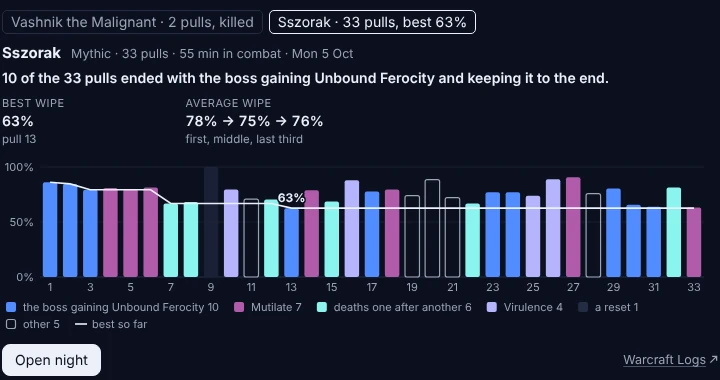
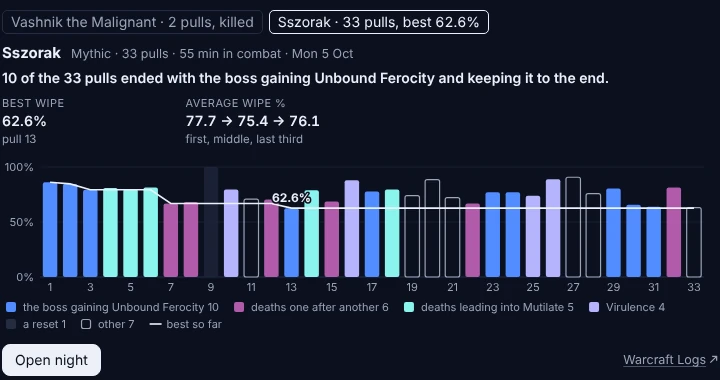
fix(agent): a night's card writes a wipe's % as the answer writes it, to one decimal
raidnight.js rounded for itself, to a whole number from 10% up: "63%" in a pull's row, on the best wipe's tile
and bar, on a boss's chip and night by night, under a text saying 62.6%, and the thirds as "78% → 75% → 76%"
for 77.7, 75.4 and 76.1. Each % now comes written by pulls.pct_text beside the number its bar is drawn from
(the pinned view data gains those fields and nothing else), a trend's pulls too. Three changelog pictures of
the card are shot again.

diff --git a/src/wipebot/core/app/raidnight.js b/src/wipebot/core/app/raidnight.js
@@ -24,10 +24,12 @@ views.night = (() => {
     return { hued: hues.has, svg: (w) => quiet(w) ? `fill="${quiet(w)}"` : hues.svg(w), css: (w) => quiet(w) ? `background:${quiet(w)}` : hues.css(w) };
   }
 
-  const pct = (v) => `${v.toFixed(v < 10 ? 1 : 0)}%`;
-  // how far a wipe got as raiders say it: on a boss counted by phase the phase and the boss's health in it ("P2 64%"),
-  // else the boss's % (the bars stand on Warcraft Logs' % of the whole fight, which ranks wipes across phases)
-  const said = (r) => r.health != null ? `${r.phase.split(" ")[0]} ${pct(r.health)}` : pct(r.pct);
+  // Every % the card prints comes written as progress's text writes it (views.night_view's `*_text`: "62.6%"); the
+  // numbers beside them are for the bars. The page rounded for itself once: "63%" under a text saying 62.6%.
+  // How far a wipe got as raiders say it: on a boss counted by phase the phase and the boss's health in it
+  // ("P2 64.0%"), else the boss's % (the bars stand on Warcraft Logs' % of the whole fight, which ranks wipes across
+  // phases)
+  const said = (r) => r.health_text ? `${r.phase.split(" ")[0]} ${r.health_text}` : r.pct_text;
 
   // The card's numbers. What ended the most pulls is the headline of a night without a kill (views.night_headline):
   // here only after a kill, and counted as there and in the list of endings, over every pull that ended.
@@ -41,7 +43,7 @@ views.night = (() => {
         : best ? ["Best wipe", said(best), "", `pull ${best.pull}`] : null,
       g ? ["Guild best before", said(g), "", beat ? "beaten tonight" : g.day] : null,
       kill && top ? ["Ended most pulls", top[0].replace(/ killing many$/, ""), "decided", `${top[1]} of ${ended}${/killing many$/.test(top[0]) ? ", killing many" : ""}`] : null,
-      D.thirds ? ["Average wipe", D.thirds.map((t) => `${Math.round(t)}%`).join(" → "), "", D.phased ? "WCL %, first, middle, last third" : "first, middle, last third"] : null,
+      D.thirds ? ["Average wipe %", D.thirds_text.join(" → "), "", D.phased ? "WCL %, first, middle, last third" : "first, middle, last third"] : null,
     ];
   }
 
@@ -49,7 +51,7 @@ views.night = (() => {
   function bosses() {
     if (D.bosses.length < 2) return "";
     return `<div class="chips bosses">${D.bosses.map((b) => `<button class="chip${b.boss === D.boss ? " on" : ""}" data-boss="${kit.esc(b.boss)}">`
-      + `${kit.esc(b.boss)} · ${kit.plural(b.pulls, "pull")}${b.kill ? ", killed" : b.best != null ? `, best ${pct(b.best)}` : ""}</button>`).join("")}</div>`;
+      + `${kit.esc(b.boss)} · ${kit.plural(b.pulls, "pull")}${b.kill ? ", killed" : b.best != null ? `, best ${b.best_text}` : ""}</button>`).join("")}</div>`;
   }
 
   const sub = () => [D.difficulty, kit.plural(D.pulls.length, "pull"), `${Math.round(D.combat_ms / 60000)} min in combat`, D.title.split(", ").pop()].filter(Boolean).join(" · ");
@@ -67,7 +69,7 @@ views.night = (() => {
     const line = [];
     D.pulls.forEach((r, i) => {
       const cx = x(i) + band / 2, v = r.kill ? 0 : r.pct ?? 0;
-      const left = r.health != null ? `${r.phase} at ${pct(r.health)} (WCL ${pct(v)})` : `${pct(v)} left${r.phase ? ` (${r.phase})` : ""}`;
+      const left = r.health_text ? `${r.phase} at ${r.health_text} (WCL ${r.pct_text})` : `${r.pct_text}${r.pct != null ? " left" : ""}${r.phase ? ` (${r.phase})` : ""}`;
       const tip = `Pull ${r.pull}: ${r.kill ? "kill" : r.reset ? "a reset" : r.live ? "still going" : left}, ${kit.clock(r.duration_ms)}`
         + `\nEnded by: ${r.ended}` + (r.first ? `\nFirst death: ${r.first.name} (${r.first.by}, ${kit.clock(r.first.ms)})` : "");
       if (r.kill) o += `<path d="M${cx} ${y(0) - 12} l4 8 l-8 0z" fill="var(--gold)"/>`;
@@ -108,7 +110,7 @@ views.night = (() => {
     const n = phaseNo(p);
     return n ? `color-mix(in srgb, var(--blue) ${Math.round(35 + 65 * (top > 1 ? (n - 1) / (top - 1) : 1))}%, var(--line))` : "var(--muted)";
   }
-  const best = (r) => r.kill ? "kill" : r.pct == null ? "–" : r.phase ? `${r.phase.split(" ")[0]} ${pct(r.health ?? r.pct)}` : pct(r.pct);
+  const best = (r) => r.kill ? "kill" : r.pct == null ? "–" : r.phase ? `${r.phase.split(" ")[0]} ${r.health_text || r.pct_text}` : r.pct_text;
 
   function weeksStats() {
     const W = D.weeks, kill = W.find((r) => r.kill), first = W[0], last = W[W.length - 1];
@@ -131,7 +133,7 @@ views.night = (() => {
     W.forEach((r, i) => {
       const cx = x(i) + band / 2, v = r.kill ? 0 : r.pct ?? 0;
       const tip = `${r.day}: ${kit.plural(r.pulls, "pull")}, ${r.kill ? `killed on pull ${r.kill}` : r.pct == null ? "no wipe past a reset"
-        : `best wipe ${r.health != null ? `${r.phase} at ${pct(r.health)} (WCL ${pct(r.pct)})` : `${pct(r.pct)}${r.phase ? ` (${r.phase})` : ""}`} on pull ${r.pull}`}`
+        : `best wipe ${r.health_text ? `${r.phase} at ${r.health_text} (WCL ${r.pct_text})` : `${r.pct_text}${r.phase ? ` (${r.phase})` : ""}`} on pull ${r.pull}`}`
         + (r.ended ? `\nEnded most pulls: ${r.ended[0]} (${r.ended[1]})` : "");
       if (r.kill) o += `<path d="M${cx} ${y(0) - 14} l5 10 l-10 0z" fill="var(--gold)"/>`;
       else if (r.pct != null) o += `<rect x="${cx - bw / 2}" y="${y(v)}" width="${bw}" height="${Math.max(1, y(0) - y(v))}" rx="3" fill="${phaseColor(r.phase, top)}"/>`;
@@ -179,7 +181,7 @@ views.night = (() => {
 
   function table() {
     const color = colorOf();
-    const rows = D.pulls.map((r) => `<tr data-pull="${r.pull}"${kit.opens()}><td>${r.pull}</td><td>${r.kill ? "kill" : r.reset ? "reset" : r.pct != null ? pct(r.pct) : "–"}${r.best ? " ★" : ""}</td>`
+    const rows = D.pulls.map((r) => `<tr data-pull="${r.pull}"${kit.opens()}><td>${r.pull}</td><td>${r.kill ? "kill" : r.reset ? "reset" : r.pct != null ? r.pct_text : "–"}${r.best ? " ★" : ""}</td>`
       + `<td>${r.phase || ""}</td><td>${kit.clock(r.duration_ms)}</td><td><span class="dot" style="${color.css(r.ended)}"></span>${kit.esc(r.ended)}</td>`
       + `<td>${r.first ? `${kit.esc(r.first.name)} (${kit.esc(r.first.by)}, ${kit.clock(r.first.ms)})` : ""}</td></tr>`).join("");
     return `<div class="section-title">Pull by pull (click one for its view; ★ best of the night until then)</div><div class="scroll-x"><table class="pulls"><thead><tr>`

diff --git a/src/wipebot/core/app/trend.js b/src/wipebot/core/app/trend.js
@@ -19,8 +19,8 @@ views.trend = (() => {
   const total = (v) => D.count ? String(Math.round(v)) : kit.short(v);
   const change = (now, was) => { const p = Math.round((now / was - 1) * 100); return p ? `${p > 0 ? "+" : "−"}${Math.abs(p)}%` : "the same"; };
   const counted = () => D.pulls.filter((r) => !r.reset);
-  // how far a wipe got, as the tools write it ("62.6%"); a log without it has none
-  const left = (r) => r.pct == null ? "" : `${r.pct.toFixed(1)}%`;
+  // how far a wipe got, written as the tools write it (views.trend_view: "62.6%"); a log without it has none
+  const left = (r) => r.pct_text || "";
   const result = (r) => r.kill ? "kill" : r.reset ? "reset" : left(r) || "–";
 
   function stats() {

diff --git a/tests/core/test_views.py b/tests/core/test_views.py
@@ -212,6 +212,51 @@ async def test_the_raid_night_view_states_what_progress_states(recorded):
     assert [r["pull"] for r in data["pulls"] if r["best"]] == [2, 3, 7, 13]
 
 
+async def test_the_night_card_prints_each_wipes_percent_as_progress_writes_it(recorded, monkeypatch):
+    """The night's card rounded a wipe's % itself, to a whole number from 10% up: "63%" in pull 13's row, on the
+    best wipe's tile and bar and on the boss's chip, under a text that says 62.6%, and the thirds as "78% → 75% →
+    76%" for the text's 77.7, 75.4 and 76.1. Each % is written where the text's is (pulls.pct_text) and printed."""
+    from wipebot.core import viewhost
+    data = await raid_night_data()
+    text, _ = await server.call("progress", NIGHT_OF_PULLS.args)
+    for r in data["pulls"]:
+        assert re.search(rf"^  {r['pull']}: {re.escape(r['pct_text'])} ", text, re.MULTILINE), r["pull"]
+    assert "first third {}, middle {}, last third {}".format(*data["thirds_text"]) in text
+    async with drawn("progress", NIGHT_OF_PULLS.args, mode="fullscreen", width=viewhost.FULL_WIDTH) as (view, errors):
+        tiles = await view.evaluate(STAT_TILES)
+        cells = await view.locator("table.pulls tbody tr").evaluate_all(
+            "trs => trs.map((tr) => tr.children[1].textContent.replace(' ★', ''))")
+        chips = await view.locator(".chips.bosses .chip").all_inner_texts()
+        marks = await view.evaluate("() => [...document.querySelectorAll('svg text')].map((t) => t.textContent)")
+        tip = await view.locator('[data-pull-col="13"]').first.get_attribute("data-tip")
+    assert not errors and [t.upper() for t in tiles] == [
+        "BEST WIPE\n62.6%\nPULL 13", "AVERAGE WIPE %\n77.7 → 75.4 → 76.1\nFIRST, MIDDLE, LAST THIRD"]
+    assert cells == ["reset" if r["reset"] else r["pct_text"] for r in data["pulls"]] and cells[12] == "62.6%"
+    assert chips == ["Vashnik the Malignant · 2 pulls, killed", "Sszorak · 33 pulls, best 62.6%"]
+    assert "62.6%" in marks and tip.startswith("Pull 13: 62.6% left (P1 (2nd time)), 2:42")
+    # A boss counted by phase, made up, with halves that round two ways: 68.25 is "68.2%" as the text writes it
+    # and was "68%" here; a page that rounds for itself writes "68.3%"
+    night = {"view": "night", "report": "AbCdEfGh12345678", "boss": "Torvek's Forge", "difficulty": "Heroic",
+             "title": "Torvek's Forge, Mon 1 Jan", "url": "https://www.warcraftlogs.com/reports/AbCdEfGh12345678",
+             "combat_ms": 600000, "phased": True, "first_n": 3, "thirds": [70.25, 61.0, 55.55],
+             "guild_best": {"pct": 41.25, "day": "Thu 9 Oct", "pull": 7, "phase": "P3", "health": 12.25},
+             "ends": [["Slag Wave killing many", 2]], "firsts": [["Slag Wave", 4]],
+             "bosses": [{"boss": "Torvek's Forge", "pulls": 2, "kill": False, "best": 55.25}],
+             "pulls": [{"pull": n, "pct": pct, "kill": False, "reset": False, "live": False, "duration_ms": 300000,
+                        "phase": "P2 (2nd time)", "health": health, "ended": "Slag Wave killing many",
+                        "best": False, "first": None} for n, pct, health in ((1, 60.0, 80.0), (2, 55.25, 68.25))]}
+    night["headline"] = views.night_headline(night["pulls"], [("Slag Wave killing many", 2)])
+    made_up_view(monkeypatch, {"view": "night", "report": night["report"], "boss": night["boss"]}, written(night))
+    async with drawn("progress", {}, width=380) as (view, errors):
+        tiles = [t.split("\n")[:2] for t in await view.evaluate(STAT_TILES)]
+        marks = await view.evaluate("() => [...document.querySelectorAll('svg text')].map((t) => t.textContent)")
+        tip = await view.locator('[data-pull-col="2"]').first.get_attribute("data-tip")
+    assert not errors and [[a.upper(), b] for a, b in tiles] == [
+        ["BEST WIPE", "P2 68.2%"], ["GUILD BEST BEFORE", "P3 12.2%"], ["AVERAGE WIPE %", "70.2 → 61.0 → 55.5"]]
+    assert "P2 68.2%" in marks and "guild best before: P3 12.2%" in marks
+    assert tip.startswith("Pull 2: P2 (2nd time) at 68.2% (WCL 55.2%), 5:00")
+
+
 @pytest.mark.parametrize("case", ["pull-summary", "vashnik-summary", "altar-summary"])
 async def test_the_pull_cards_boss_health_is_what_the_texts_first_line_states(recorded, case):
     """The card's "Boss" number was the log's raw boss health ("62.59%") under a text that leads with "wipe at
@@ -2294,6 +2339,18 @@ def made_up_view(monkeypatch, key: dict, data: dict) -> None:
     monkeypatch.setattr(server, "view_data", view_data)
 
 
+def written(night: dict) -> dict:
+    """A made-up night with every % written beside its number, as views.night_view hands them to the page."""
+    for r in night["pulls"]:
+        r |= {"pct_text": views.pct_text(r["pct"]), "health_text": views._pct(r["health"])}
+    for b in night["bosses"]:
+        b["best_text"] = views._pct(b["best"])
+    if best := night.get("guild_best"):
+        best |= {"pct_text": views.pct_text(best["pct"]), "health_text": views._pct(best["health"])}
+    night["thirds_text"] = [f"{t:.1f}" for t in night["thirds"]] if night["thirds"] else None
+    return night
+
+
 async def test_a_pulls_chip_is_a_fingers_target_on_a_touch_screen_and_a_small_one_with_a_mouse(monkeypatch):
     """A chip is 20 px high where a mouse points at it; under a finger it grows and reaches into the gaps around
     it, 44 px each way, without reaching over the chip beside it."""
@@ -2325,7 +2382,7 @@ async def test_a_night_of_one_pull_counts_one_pull(monkeypatch):
              "pulls": [{"pull": 1, "pct": 0.0, "kill": True, "reset": False, "live": False, "duration_ms": 240000,
                         "phase": "", "health": None, "ended": "a kill", "best": False, "first": None}]}
     from wipebot.core import viewhost
-    made_up_view(monkeypatch, {"view": "night", "report": night["report"], "boss": night["boss"]}, night)
+    made_up_view(monkeypatch, {"view": "night", "report": night["report"], "boss": night["boss"]}, written(night))
     async with drawn("progress", {}) as (view, errors):
         card = (await view.locator("body").inner_text()).lower()
     async with drawn("progress", {}, mode="fullscreen", width=viewhost.FULL_WIDTH) as (view, more):
@@ -3133,7 +3190,8 @@ async def test_the_night_by_night_card_leads_with_its_headline(monkeypatch):
                           "first": None} for n, pct in ((8, 60.0), (9, 55.0))],
                "weeks": [views.weeks_row(n) for n in nights], "weeks_headline": views.weeks_headline(nights)}
     tonight["headline"] = views.night_headline(tonight["pulls"], [("Slag Wave killing many", 2)])
-    made_up_view(monkeypatch, {"view": "night", "report": "night2", "boss": tonight["boss"], "weeks": 3}, tonight)
+    made_up_view(monkeypatch, {"view": "night", "report": "night2", "boss": tonight["boss"], "weeks": 3},
+                 written(tonight))
     further = "Thu 23 Oct got further than any night before: best wipe P3 91.0% (WCL 55.0%), on pull 9."
     async with drawn("progress", {}, width=380) as (view, errors):
         card = await view.evaluate(CARD)
@@ -3233,7 +3291,8 @@ def made_up_trend() -> dict:
     rates = [1_200_000, 200_000, 1_310_000, 1_280_000, 1_400_000, 1_520_000, 1_610_000]
     own = [210_000, 30_000, None, 228_000, 240_000, 251_000, 262_000]
     pulls = [{"pull": n, "kill": n == 7, "reset": n == 2, "pct": 0.0 if n == 7 else 90.0 - 10 * n,
-              "seconds": 60.0 * n, "amount": rate * 60.0 * n, "rate": rate, "mine": mine,
+              "pct_text": None if n == 7 else f"{90.0 - 10 * n:.1f}%", "seconds": 60.0 * n,
+              "amount": rate * 60.0 * n, "rate": rate, "mine": mine,
               "top": [["Mirelle", rate * 20.0 * n], ["Torvald", rate * 15.0 * n]]}
              for n, (rate, mine) in enumerate(zip(rates, own, strict=True), 1)]
     return {"view": "trend", "report": "AbCdEfGh12345678", "boss": "Torvek's Forge", "tool": "breakdown",
@@ -3254,7 +3313,7 @@ async def test_a_trend_tells_a_kill_and_a_reset_from_a_wipe_and_draws_the_askers
     "null%" for a log without one); the one asking has their own row, which says where they weren't in a pull."""
     from wipebot.core import viewhost
     trend = made_up_trend()
-    trend["pulls"][4]["pct"] = None  # Warcraft Logs gave pull 5 no percent
+    trend["pulls"][4] |= {"pct": None, "pct_text": None}  # Warcraft Logs gave pull 5 no percent
     key = {k: trend[k] for k in ("view", "report", "boss", "tool", "args")} | {"mark": "Mirelle"}
     made_up_view(monkeypatch, key, trend)
     tip = "(n) => document.querySelector(`[data-pull-col=\"${n}\"]`).dataset.tip"
@@ -3432,11 +3491,11 @@ async def test_asked_about_the_whole_night_the_card_leads_with_its_bosses(monkey
                         "phase": "", "health": None, "ended": "Slag Wave killing many", "best": False,
                         "first": None} for n, pct in ((1, 41.5), (2, 60.0))]}
     night["headline"] = views.night_headline(night["pulls"], [("Slag Wave killing many", 2)])
-    made_up_view(monkeypatch, {"view": "night", "report": night["report"], "boss": night["boss"]}, night)
+    made_up_view(monkeypatch, {"view": "night", "report": night["report"], "boss": night["boss"]}, written(night))
     chips = '() => [...document.querySelectorAll(".chips.bosses .chip")].map((b) => [b.textContent, b.className])'
     async with drawn("progress", {"report": night["report"]}) as (view, errors):
-        assert await view.evaluate(chips) == [["Ashen Warden · 1 pull, killed", "chip"],
-                                              ["Torvek's Forge · 2 pulls, best 42%", "chip on"]]
+        assert await view.evaluate(chips) == [["Ashen Warden · 1 pull, killed", "chip"],  # the best once read "42%"
+                                              ["Torvek's Forge · 2 pulls, best 41.5%", "chip on"]]
         under = "document.querySelector('.chips.bosses + [data-panel] h1').textContent"  # then that boss's card
         assert await view.evaluate(under) == "Torvek's Forge"
         assert (await view.evaluate(CARD))["lead"] == ["2 of the 2 pulls ended with Slag Wave killing many."]

diff --git a/src/wipebot/core/report/views.py b/src/wipebot/core/report/views.py
@@ -257,7 +257,7 @@ async def _best(rep: Report, f: dict) -> dict | None:
     earlier = wipe_pcts([g for g in rep.by_boss[rep.boss_key(f)]
                          if g.get("difficulty") == f.get("difficulty") and g["startTime"] < f["startTime"]])
     tonight, before = min(earlier, default=None), await rep.guild_best(f)
-    return {"tonight": pct_text(tonight) if tonight is not None else None,
+    return {"tonight": _pct(tonight),
             "new_tonight": tonight is not None and pct < tonight,
             "guild": {"pct": pct_text(before.pct), "day": day(before.start_ms)} if before else None,
             "new_guild": before is not None and pct < min(before.pct, tonight if tonight is not None else before.pct)}
@@ -495,7 +495,8 @@ async def night_view(rep: Report, boss: str, nights: list[BossNight] | None = No
     (pull_summary's "Ended by") and first death; the night's best, the guild's best before it, how the pulls ended
     and the killers of each pull's first deaths, the trend in thirds; and the night's other bosses. With `nights`
     (progress's `weeks`), the boss on each raid night: its pulls, the kill or the best wipe and the phase it got to,
-    and what ended most pulls, led by their own sentence (weeks_headline)."""
+    and what ended most pulls, led by their own sentence (weeks_headline). Every % comes as a number, for a bar's
+    height, and written as the text writes it (`*_text`), for the page to print."""
     fights = rep.by_boss[boss]
     await rep.decided_cuts(fights)
     before = await rep.guild_best(fights[0])
@@ -516,9 +517,11 @@ async def night_view(rep: Report, boss: str, nights: list[BossNight] | None = No
         if new:
             best = pct
         first = deaths[0] if deaths else None
-        rows.append({"pull": rep.pull_no(f), "pct": pct, "kill": bool(f["kill"]), "reset": is_reset(f),
-                     "live": bool(f.get("inProgress")), "duration_ms": round(f["endTime"] - f["startTime"]),
-                     "phase": phase_label(f), "health": phase_health(f), "ended": kind_of_end(e), "best": starred,
+        rows.append({"pull": rep.pull_no(f), "pct": pct, "pct_text": pct_text(pct), "kill": bool(f["kill"]),
+                     "reset": is_reset(f), "live": bool(f.get("inProgress")),
+                     "duration_ms": round(f["endTime"] - f["startTime"]), "phase": phase_label(f),
+                     "health": phase_health(f), "health_text": _pct(phase_health(f)),
+                     "ended": kind_of_end(e), "best": starred,
                      "first": {"name": rep.names.get(first["targetID"], "?"),
                                "by": rep.ability(first.get("killingAbilityGameID")),
                                "ms": round(first["timestamp"] - f["startTime"])} if first else None})
@@ -529,13 +532,16 @@ async def night_view(rep: Report, boss: str, nights: list[BossNight] | None = No
         "headline": night_headline(rows, ends.most_common()),
         "difficulty": DIFFICULTIES.get(fights[0].get("difficulty"), ""), "url": rep.url(fights[0]).split("#")[0],
         "combat_ms": round(sum(f["endTime"] - f["startTime"] for f in fights)), "pulls": rows,
-        "guild_best": {"pct": before.pct, "day": day(before.start_ms), "pull": before.pull_no,
-                       "phase": before.phase, "health": before.health} if before else None,
+        "guild_best": {"pct": before.pct, "pct_text": pct_text(before.pct), "day": day(before.start_ms),
+                       "pull": before.pull_no, "phase": before.phase, "health": before.health,
+                       "health_text": _pct(before.health)} if before else None,
         "phased": by_phase(fights),
         "ends": ends.most_common(), "firsts": firsts.most_common(6), "first_n": FIRST_DEATHS,
         "thirds": [round(t, 1) for t in thirds] if thirds else None,
-        "bosses": [{"boss": b, "pulls": len(fs), "kill": any(f["kill"] for f in fs),
-                    "best": min(wipe_pcts(fs), default=None)} for b, fs in rep.by_boss.items()],
+        "thirds_text": [f"{t:.1f}" for t in thirds] if thirds else None,  # as progress's "Average wipe %" line
+        "bosses": [{"boss": b, "pulls": len(fs), "kill": any(f["kill"] for f in fs), "best": best,
+                    "best_text": _pct(best)} for b, fs in rep.by_boss.items()
+                   for best in [min(wipe_pcts(fs), default=None)]],
     } | ({"weeks": [weeks_row(n) for n in nights]} if nights is not None else {}) | (
         {"weeks_headline": weeks_headline(nights)} if nights else {})
 
@@ -543,9 +549,17 @@ async def night_view(rep: Report, boss: str, nights: list[BossNight] | None = No
 def weeks_row(n: BossNight) -> dict:
     """One raid night on the boss, as progress's `weeks` states it."""
     top = next(((what, k) for what, k in n.ends if what not in (KILL, RESET)), None)
+    pct = n.best[0] if n.best else None
     return {"day": day(n.start_ms), "start_ms": round(n.start_ms), "report": n.code, "pulls": n.pulls,
-            "kill": n.kill, "pct": n.best[0] if n.best else None, "pull": n.best[1] if n.best else None,
-            "phase": n.best_phase, "health": n.best_health, "ended": list(top) if top else None}
+            "kill": n.kill, "pct": pct, "pct_text": _pct(pct), "pull": n.best[1] if n.best else None,
+            "phase": n.best_phase, "health": n.best_health, "health_text": _pct(n.best_health),
+            "ended": list(top) if top else None}
+
+
+def _pct(pct: float | None) -> str | None:
+    """A boss % written as the text writes one (pulls.pct_text: "62.6%"), None where there is none. The night's card
+    draws its bars from the numbers and writes these: it rounded for itself, to "63%" under a text saying 62.6%."""
+    return pct_text(pct) if pct is not None else None
 
 
 async def death_view(rep: Report, f: dict, player: str, death: int = 1) -> dict:
@@ -1223,6 +1237,7 @@ async def trend_view(rep: Report, tool: str, args: dict, mark: str | None = None
     # given, never writes 20.3 under a headline's 20.2 (20.249 handed on as 20.25)
     places = 1 if t.count else 2
     pulls = [{"pull": no, "kill": bool(f["kill"]), "reset": reset, "pct": 0.0 if f["kill"] else wipe_pct(f),
+              "pct_text": None if f["kill"] else _pct(wipe_pct(f)),  # how far a wipe got, written as the text does
               "seconds": round(s, 3), "amount": round(v, 1), "rate": round(r, places),
               "top": [[n, round(x, 1)] for n, x in sorted(row.items(), key=lambda kv: (-kv[1], kv[0]))[:TREND_TOP]
                       if x]}

diff --git a/CHANGELOG.md b/CHANGELOG.md
@@ -41,7 +41,7 @@ The format is based on [Keep a Changelog](https://keepachangelog.com/en/1.1.0/).
   ![Sszorak pull 13's card: under the title one sentence, "The boss gained Unbound Ferocity at 2:32 and kept it to the end, with 16 of 20 alive.", then the boss's health left, the deaths before 2:32 and the first death, the pull's chart, and the buttons Open pull and Replay](https://raw.githubusercontent.com/Enf0/wipebot/main/docs/images/card-verdict-pull.webp)
 - `MCP` **A night's card is half as tall, and a whole night leads with its bosses.** The card for a night's pulls ran to 684 px, 836 on a phone, because it repeated two lists the answer already has in words. It is now its sentence, its numbers and the chart of the pulls, 348 px; "Open night" has the lists, with the table of pulls directly under the chart. Asked about the whole night and not one boss, the card starts with every boss of the night, its pulls and its kill or best wipe, where it used to show the last boss as if you had asked about that one. A player's night is shorter the same way: what killed them on the card, the pull by pull chart when opened. The card also counts one way throughout: "10 of the 33 pulls", where it had "10 of 32" over a list of 33.
 
-  ![The whole night's card: a row with Vashnik the Malignant, 2 pulls, killed, and Sszorak, 33 pulls, best 63%, then Sszorak's sentence, two numbers and its 33 pulls as bars coloured by what ended them](https://raw.githubusercontent.com/Enf0/wipebot/main/docs/images/night-card-short.webp)
+  ![The whole night's card: a row with Vashnik the Malignant, 2 pulls, killed, and Sszorak, 33 pulls, best 62.6%, then Sszorak's sentence, two numbers and its 33 pulls as bars coloured by what ended them](https://raw.githubusercontent.com/Enf0/wipebot/main/docs/images/night-card-short.webp)
 - `Agent` **A first question about a pull comes back faster.** Wipebot's requests to Warcraft Logs went out four a second, one behind the other for everyone asking, a pause meant for the guide sites. Warcraft Logs is now asked without it: by the number of requests each sends, a first look at a player's pull loses about 3.5 s of waiting and a comparison with top players about 7 s. Warcraft Logs' hourly points still bound what Wipebot asks, and the guide sites are asked at the old pace.
 - `Agent` **A question only Warcraft Logs' raw data answers comes back in pulls, times and names, and a long answer is cut instead of refused.** For what no ready-made analysis covers, Wipebot asks Warcraft Logs directly. Those answers were raw: fight ids, milliseconds from the report's start and ids of players and abilities, which were then looked up and converted by hand, and an answer too long to read was refused after its Warcraft Logs points were spent. Events now come as rows with the time into their pull and every name, counted by kind, ability, source and target, with the damage or healing of each kind added up and what shields absorbed beside it; other times read into their pull; each fight is named as boss and pull number, and each phase as P2 or I1, the way every other answer names it; and a pull is asked for by its number, a player by name. An answer too long to read is cut to its first rows and says how many were left out.
 - `Agent` **A death's recap says first what did the damage, and whether they could have lived.** The killing blow is often a small tick after the hit that did it: a death "to" a 50k tick that a 378k hit had caused two seconds before. The recap now adds up the damage of the last 10 seconds by ability, names the biggest hit with the health it left, and says right after whether a ready defensive or a healthstone would have kept them alive, where that used to close the answer. A defensive on cooldown says until when.
@@ -97,7 +97,7 @@ The format is based on [Keep a Changelog](https://keepachangelog.com/en/1.1.0/).
 - `Agent` **Class colours read on a light card.** A player's name, their line and their dot were drawn in the game's class colours, which were made for a dark screen: on a light card a priest's white, a rogue's yellow and a monk's green all but vanished, and a death knight's red was dim on a dark one. A name now keeps its class's colour at a lightness that reads on the card, in every view, and a bar keeps the true colour with an edge around it. Chart labels are also drawn at the sizes they were meant to have, not all at one. And what was faded to say it counts less is no longer faded past reading: in a pull's list of deaths, those after the wipe was decided are grey and plain, and a pull's chip on a player's night and the number written in a death's mark are in full ink.
 
   ![A rogue's pull opened in the light theme: the name Draiman and the dot on the scale in a dark olive instead of the class's pale yellow](https://raw.githubusercontent.com/Enf0/wipebot/main/docs/images/class-colours-light.webp)
-- `Agent` **The words on the cards are put right.** A parse reads "81st percentile", not "81th". A death the log names no killing blow for is labelled "no killing blow recorded", not "killed by no killing blow recorded", and on a player's night it reads "died 0:27 (#6), no killing blow recorded", no longer "died 0:27 (#6) to no killing blow recorded". A boss killed on the first pull has "1 pull", and no heading or key for what isn't there. "Could have lived" says "Astral Shift on 1 death", and the rank under "per second alive" says it is by total. On a death, what would have kept the player alive is marked as something to do differently, as it is on their night, and no longer with the plus of what went well.
+- `Agent` **The words on the cards are put right.** A parse reads "81st percentile", not "81th". A death the log names no killing blow for is labelled "no killing blow recorded", not "killed by no killing blow recorded", and on a player's night it reads "died 0:27 (#6), no killing blow recorded", no longer "died 0:27 (#6) to no killing blow recorded". A boss killed on the first pull has "1 pull", and no heading or key for what isn't there. "Could have lived" says "Astral Shift on 1 death", and the rank under "per second alive" says it is by total. A night's card writes how far a wipe got as the answer does, to one decimal: "best 62.6%" where it rounded to "63%", and the averages of the night's thirds as 77.7, 75.4 and 76.1. On a death, what would have kept the player alive is marked as something to do differently, as it is on their night, and no longer with the plus of what went well.
 
   ![Scopidruid's death on Sszorak pull 13: the card leads with a minus and "A healthstone (if they had one; none used this pull), used in time, would have kept them alive.", then its numbers and the hits and their health in the 10 s before the death](https://raw.githubusercontent.com/Enf0/wipebot/main/docs/images/death-missed-save.webp)
 - `Agent` **The pull's chart names both of its scales, and its labels keep apart.** The boss's health now runs from 100% to 0 on every pull, so the lines of two pulls compare, with the scale on the right written in the line's gold. On a phone the moment the wipe was decided and a damage peak's height no longer print across each other or across the health line: each takes the free place nearest to it, and why the wipe was decided stays in the card's sentence over the chart. The card also has the cooldowns its tool said it had: one row over the chart, a dot for a raid cooldown and a plus for a healer's. The damage scale's top figure is no longer cut at the card's edge ("5.0M/s" read ".0M/s"), and under a long night's bars the last two pull numbers no longer print on each other.
